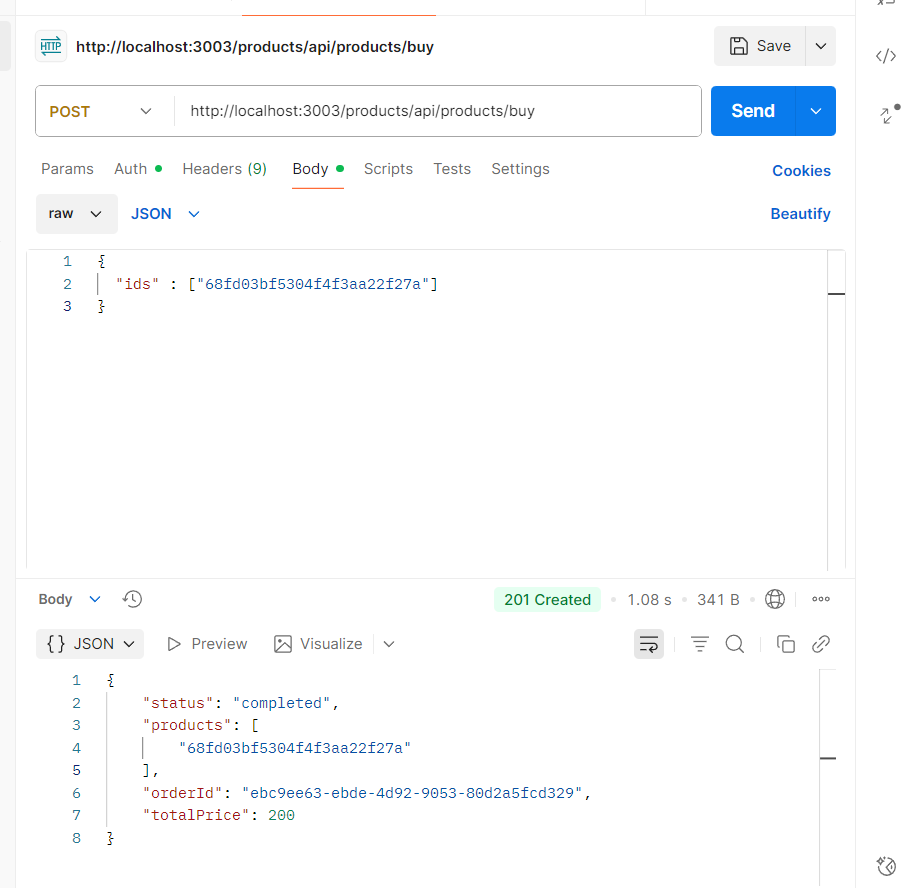
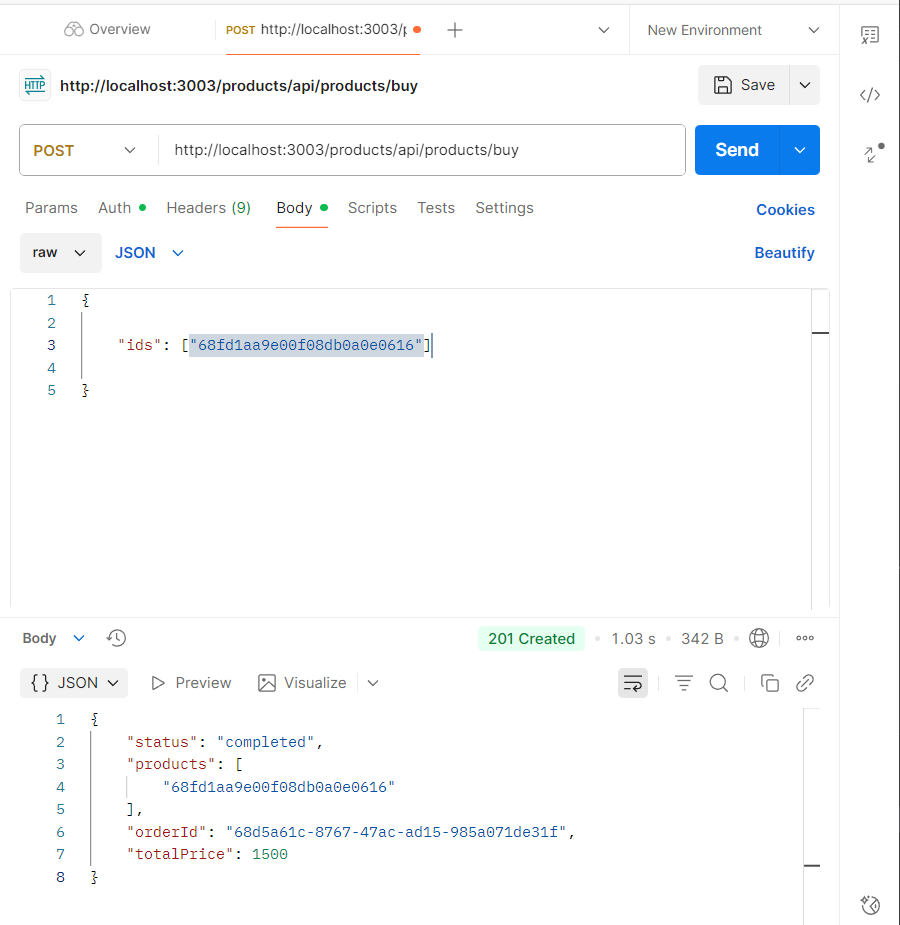
update

diff --git a/README.md b/README.md
@@ -1,0 +1,143 @@
+Hệ thống hoạt động trên Docker 
+![alt text](public/img/11.png)
+
+Test Case 1: Đăng ký user mới thành công
+Method: POST
+URL: http://localhost:3003/auth/register
+Body: 
+{
+    "username": "minhanh1",
+    "password": "123456"
+}
+Kết quả: {
+    "username": "minhanh1",
+    "password": "$2a$10$2odRWRqgqcZ9QjAVMqq1eOPTGzOAVa8hxwvrpON.Bb0CjoRWnMpXK",
+    "_id": "68fd179c03c20188ada5bcc5",
+    "__v": 0
+}
+![alt text](public/img/1.png)
+
+
+Test Case 2: Đăng ký user mới không thành công
+Method: POST
+URL: http://localhost:3003/auth/register
+Body: 
+{
+    "username": "minhanh",
+    "password": "123456"
+}
+Kết quả: {"message":"Username already taken"}
+![alt text](public/img/7.png)
+
+
+Test Case 3: Đăng nhập thành công
+Method: POST
+URL: http://localhost:3003/auth/login
+Body: 
+{
+    "username": "minhanh",
+    "password": "123456"
+}
+Kết quả: {
+    "token": "eyJhbGciOiJIUzI1NiIsInR5cCI6IkpXVCJ9.eyJpZCI6IjY4ZmQxODEzMDNjMjAxODhhZGE1YmNjOSIsImlhdCI6MTc2MTQxNzI5OX0.s3GdE1kvWFGsDQtgBuKjFS1KgTgXL6-WWdvFPgmKUJc"
+}
+![alt text](public/img/2.png)
+
+Test Case 4: Đăng nhập không thành công
+Method: POST
+URL: http://localhost:3003/auth/login
+Body: 
+{
+    "username": "minhanh",
+    "password": "1234567"
+}
+Kết quả: {
+    "message": "Invalid username or password"
+}
+![alt text](public/img/8.png)
+
+
+Test Case 5: Truy cập dashboard (cần xác thực)
+Method: GET
+URL: http://localhost:3003/auth/dashboard
+Kết quả: {"message":"Welcome to dashboard"}
+![alt text](public/img/9.png)
+
+
+Test Case 6: Truy cập dashboard không được (sai token)
+Method: GET
+URL: http://localhost:3003/auth/dashboard
+Kết quả: {
+    "message": "Token is not valid"
+}
+![alt text](public/img/10.png)
+
+
+Test Case 7: Tạo 1 sản phẩm mới
+Method: POST
+URL: http://localhost:3003/products/api/products
+Kết quả: {
+    "name": "Laptop Dell",
+    "price": 1500,
+    "description": "High performance laptop",
+    "_id": "68fd1aa9e00f08db0a0e0616",
+    "__v": 0
+}
+![alt text](public/img/3.png)
+
+Test Case 8: Xem danh sách sản phẩm
+Method: GET
+URL: http://localhost:3003/products/api/products
+Kết quả: [
+    {
+        "_id": "68fd03bf5304f4f3aa22f27a",
+        "name": "Ip",
+        "price": 200,
+        "description": "co 2 khe sim",
+        "__v": 0
+    },
+    {
+        "_id": "68fd05dfe00f08db0a0e060d",
+        "name": "Ip16",
+        "price": 200,
+        "description": "co 2 khe sim",
+        "__v": 0
+    },
+    {
+        "_id": "68fd1aa9e00f08db0a0e0616",
+        "name": "Laptop Dell",
+        "price": 1500,
+        "description": "High performance laptop",
+        "__v": 0
+    }
+]
+![alt text](public/img/6.png)
+
+Test Case 9: Thao tác đặt hàng
+Method: POST
+URL: http://localhost:3003/products/api/products/buy
+Kết quả: {
+    "status": "completed",
+    "products": [
+        "68fd1aa9e00f08db0a0e0616"
+    ],
+    "orderId": "68d5a61c-8767-47ac-ad15-985a071de31f",
+    "totalPrice": 1500
+}
+![alt text](public/img/4.png)
+
+Test Case 10: Xem sản phẩm theo id
+Method: GET
+URL: http://localhost:3003/products/api/products/68fd1aa9e00f08db0a0e0616
+Kết quả: {
+    "_id": "68fd1aa9e00f08db0a0e0616",
+    "name": "Laptop Dell",
+    "price": 1500,
+    "description": "High performance laptop",
+    "__v": 0
+}
+![alt text](public/img/5.png)
+
+
+Thao tác với github Action: Thực hiện CI/CD với dự án
+![alt text](public/img/12.png)
